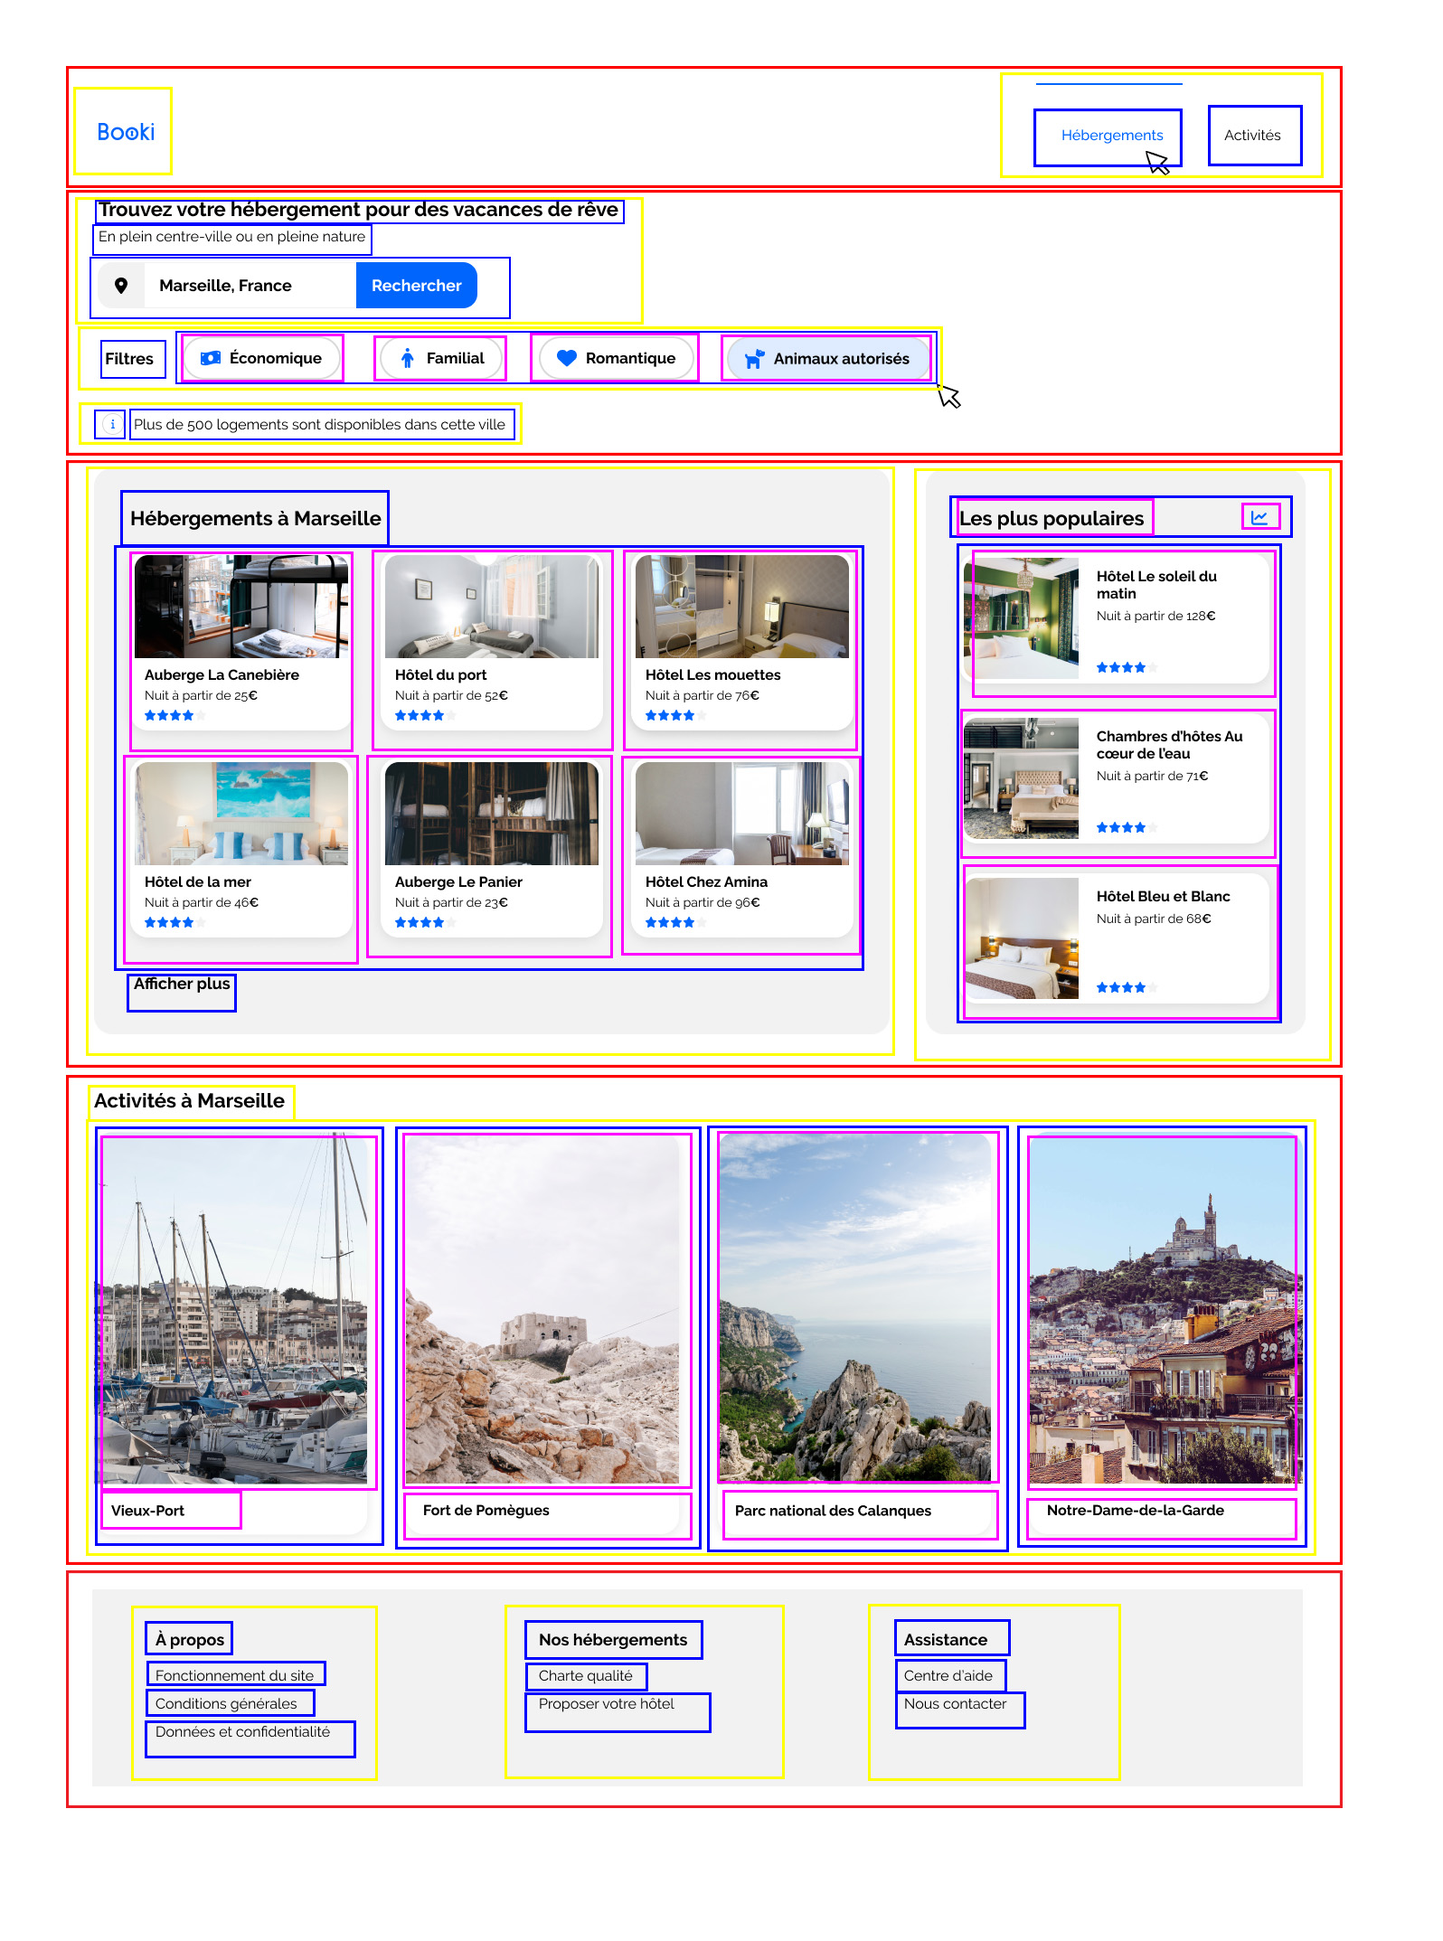
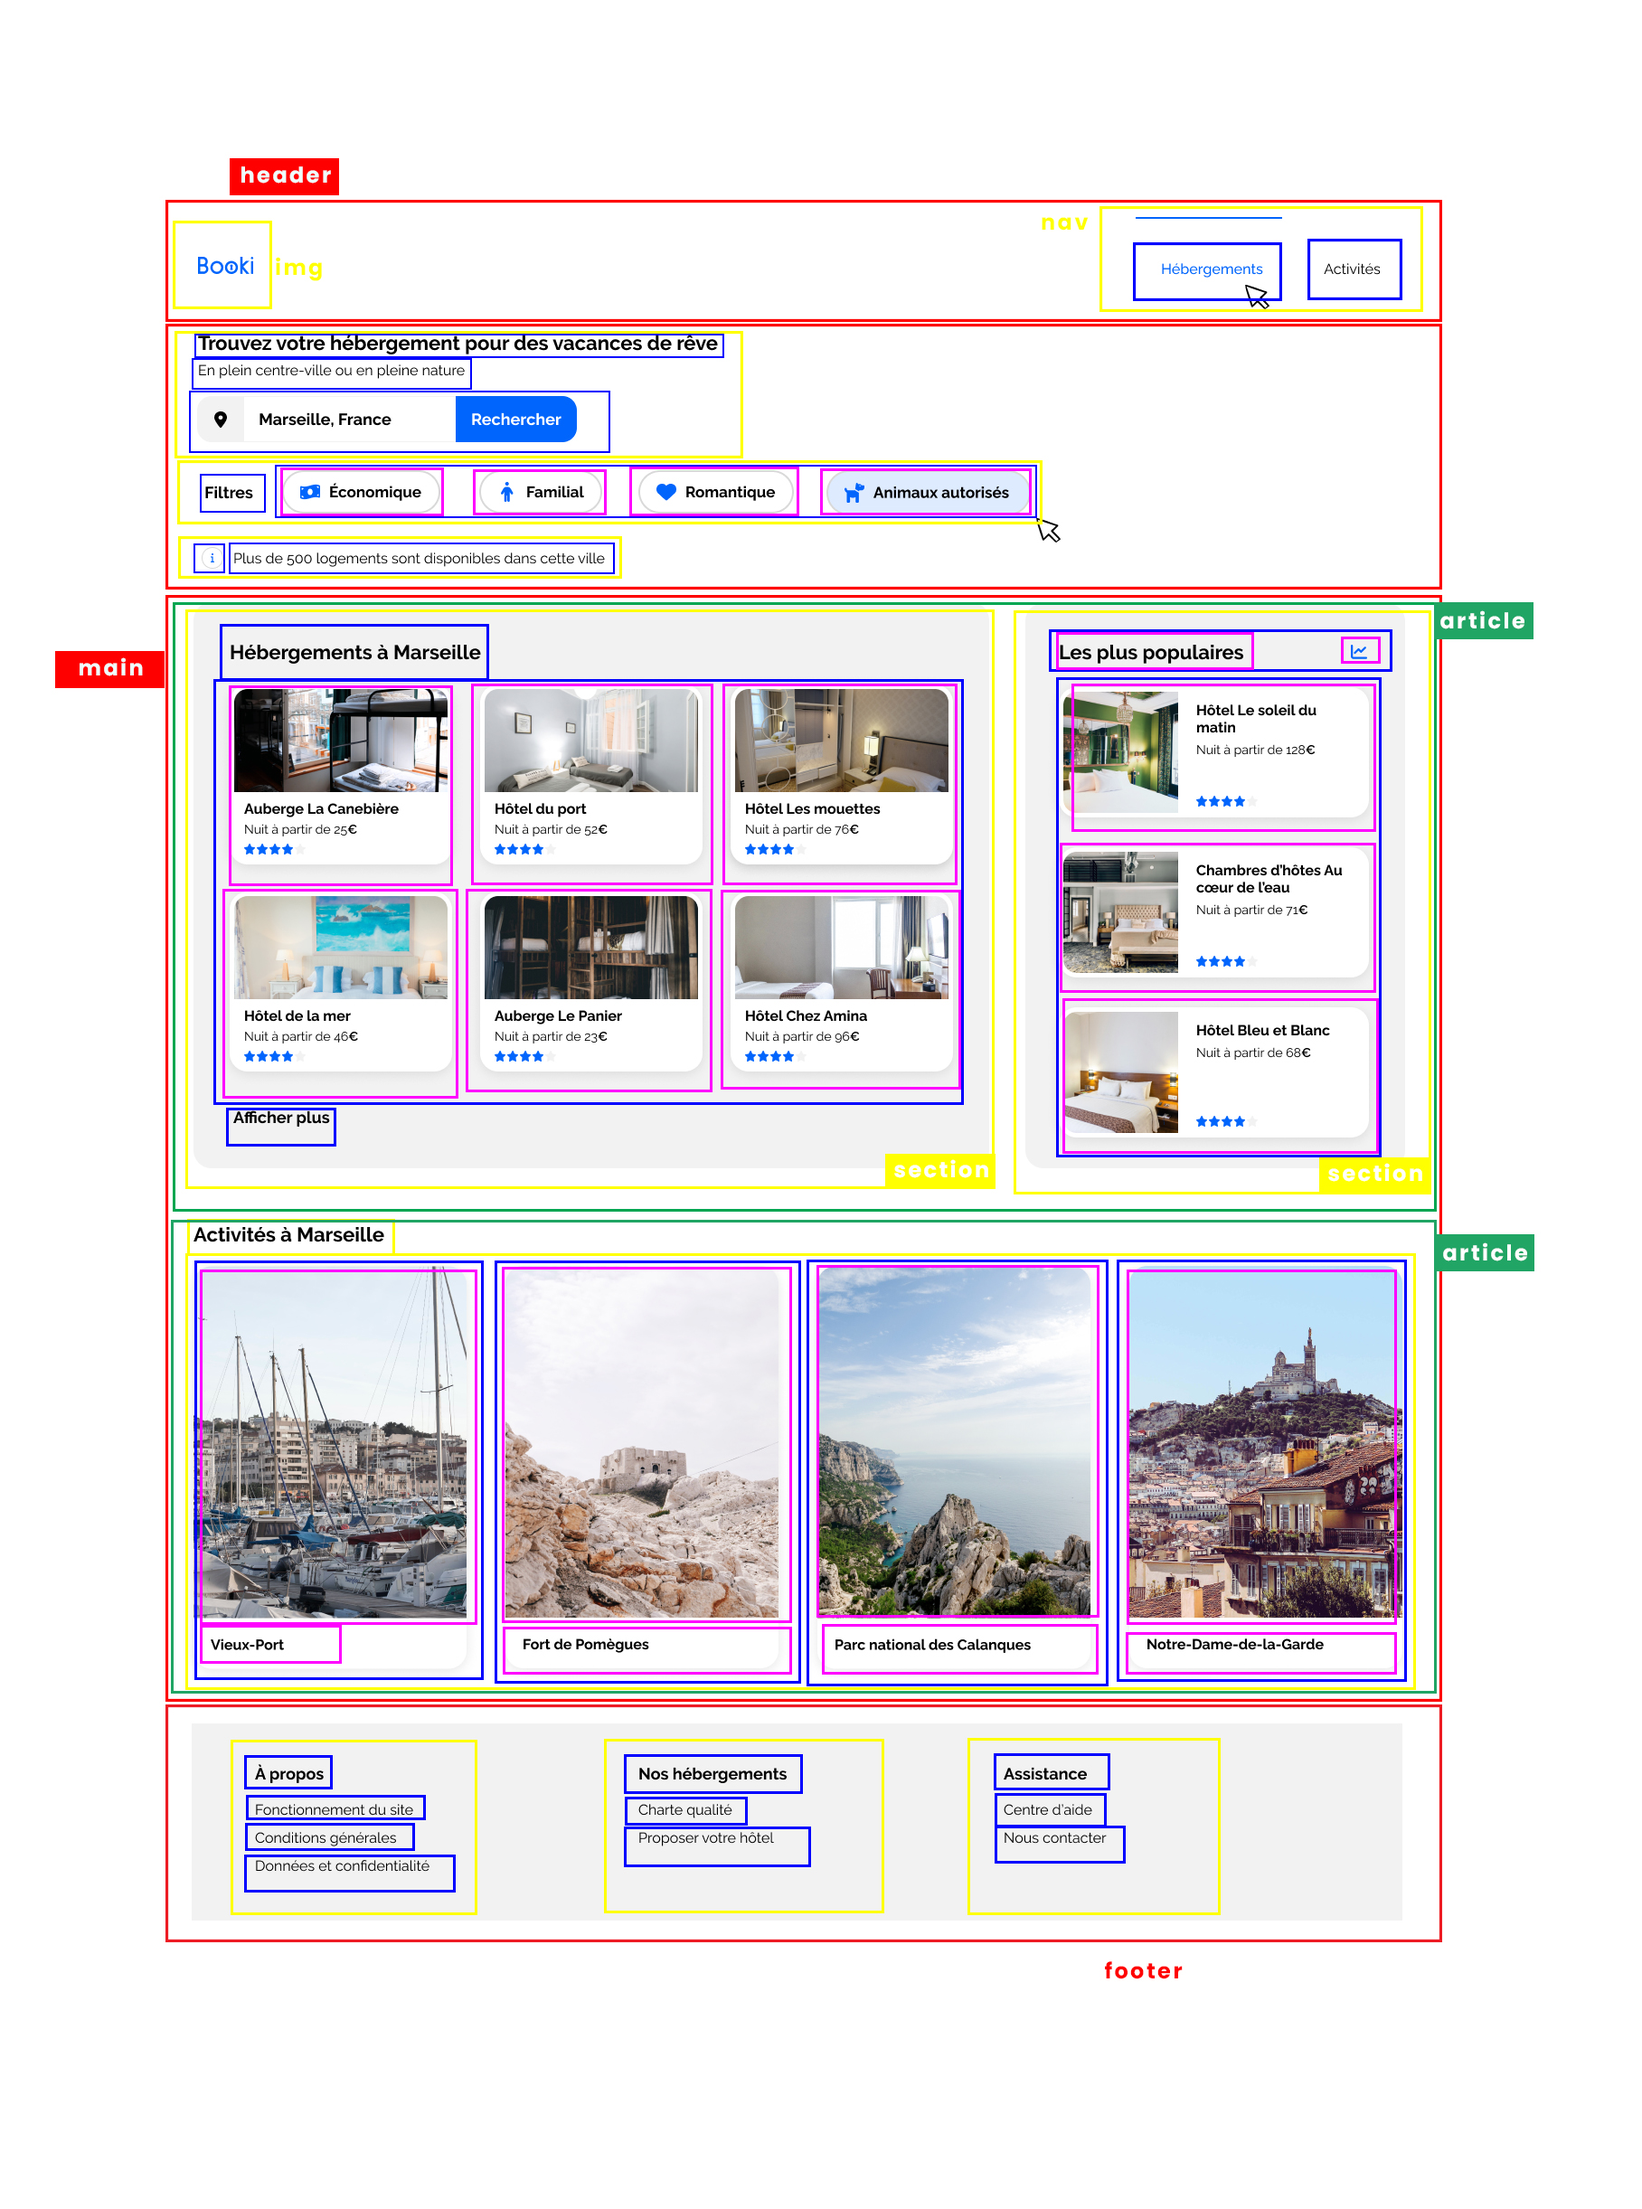
Ajout de toutes les cartes Hebergements à Marseille

diff --git a/index.html b/index.html
@@ -45,7 +45,7 @@
       </div>
 
       <div id="FiltresDeRecherche">
-         <h3>Filtres</h3>
+         <p class="SousTitres">Filtres</p>
          <div class="Filtres">
             <i class="fa-solid fa-money-bill-wave"></i>  <p>Économique</p> 
          </div>
@@ -69,24 +69,113 @@
       </div>
       
       <article id="Hebergements">
-         <h1>
-            Hébergements à Marseille
-         </h1>
-         <div class="CardHebergement">
-            <div id="AubergeLaCanebiere">
-               <img src="Images Booki/hebergements/2_large/marcus-loke-WQJvWU_HZFo-unsplash.jpg" alt="Auberge-La-Canebiere" style="width:100%">
-               <div class="ContainerCard">
-                  <h2>Auberge La Canebière</h2>
-                  <h3>Nuit à partir de 25€</h3>
-                  <i class="fa-solid fa-star blue-star"></i>
-                  <i class="fa-solid fa-star blue-star"></i>
-                  <i class="fa-solid fa-star blue-star"></i>
-                  <i class="fa-solid fa-star blue-star"></i>
-                  <i class="fa-solid fa-star grey-star"></i>                  
-               </div>
-            </div>
-         </div>
+         <section id="HebergementsAMarseille">
+            <h1>
+               Hébergements à Marseille
+            </h1>
+            <div id="CardsHebergementsAMarseille">
+                  <div class="CardHebergement">
+                     <a href="#">
+                     <img src="Images Booki/hebergements/4_small/marcus-loke-WQJvWU_HZFo-unsplash.jpg" alt="Auberge-La-Canebiere" style="width:100%">
+                     
+                     <div class="ContainerCard">
+                        <h2>Auberge La Canebière</h2>
+                        <h3>Nuit à partir de 25€</h3>
+                        <i class="fa-solid fa-star blue-star"></i>
+                        <i class="fa-solid fa-star blue-star"></i>
+                        <i class="fa-solid fa-star blue-star"></i>
+                        <i class="fa-solid fa-star blue-star"></i>
+                        <i class="fa-solid fa-star grey-star"></i>              
+                     </div>
+                     </a>
+                  </div>
 
+                  <div class="CardHebergement">
+                     <a href="#">
+                     <img src="Images Booki/hebergements/4_small/fred-kleber-gTbaxaVLvsg-unsplash.jpg" alt="Hotel-Du-Port" style="width:100%">
+                     
+                     <div class="ContainerCard">
+                        <h2>Hôtel du port</h2>
+                        <h3>Nuit à partir de 52€</h3>
+                        <i class="fa-solid fa-star blue-star"></i>
+                        <i class="fa-solid fa-star blue-star"></i>
+                        <i class="fa-solid fa-star blue-star"></i>
+                        <i class="fa-solid fa-star blue-star"></i>
+                        <i class="fa-solid fa-star grey-star"></i>                  
+                     </div>
+                     </a>
+                  </div>
+
+                  <div class="CardHebergement">
+                     <a href="#">
+                     <img src="Images Booki/hebergements/4_small/reisetopia-B8WIgxA_PFU-unsplash.jpg" alt="Hotel-Les-Mouettes" style="width:100%">
+                     
+                     <div class="ContainerCard">
+                        <h2>Hôtel Les mouettes</h2>
+                        <h3>Nuit à partir de 76€</h3>
+                        <i class="fa-solid fa-star blue-star"></i>
+                        <i class="fa-solid fa-star blue-star"></i>
+                        <i class="fa-solid fa-star blue-star"></i>
+                        <i class="fa-solid fa-star blue-star"></i>
+                        <i class="fa-solid fa-star grey-star"></i>                  
+                     </div>
+                     </a>
+                  </div>
+
+                  <div class="CardHebergement">
+                     <a href="#">
+                     <img src="Images Booki/hebergements/4_small/annie-spratt-Eg1qcIitAuA-unsplash.jpg" alt="Hotel-de-la-Mer" style="width:100%">
+                     
+                     <div class="ContainerCard">
+                        <h2>Hôtel de la mer</h2>
+                        <h3>Nuit à partir de 46€</h3>
+                        <i class="fa-solid fa-star blue-star"></i>
+                        <i class="fa-solid fa-star blue-star"></i>
+                        <i class="fa-solid fa-star blue-star"></i>
+                        <i class="fa-solid fa-star blue-star"></i>
+                        <i class="fa-solid fa-star grey-star"></i>                  
+                     </div>
+                     </a>
+                  </div>
+
+                  <div class="CardHebergement">
+                     <a href="#">
+                     <img src="Images Booki/hebergements/4_small/nicate-lee-kT-ZyaiwBe0-unsplash.jpg" alt="Hotel-Le-Panier" style="width:100%">
+                     
+                     <div class="ContainerCard">
+                        <h2>Auberge Le Panier</h2>
+                        <h3>Nuit à partir de 23€</h3>
+                        <i class="fa-solid fa-star blue-star"></i>
+                        <i class="fa-solid fa-star blue-star"></i>
+                        <i class="fa-solid fa-star blue-star"></i>
+                        <i class="fa-solid fa-star blue-star"></i>
+                        <i class="fa-solid fa-star grey-star"></i>                  
+                     </div>
+                     </a>
+                  </div>
+
+                  <div class="CardHebergement">
+                     <a href="">
+                     <img src="Images Booki/hebergements/4_small/febrian-zakaria-sjvU0THccQA-unsplash.jpg" alt="Hotel-Chez-Amina" style="width:100%">
+                     
+                     <div class="ContainerCard">
+                        <h2>Hôtel Chez Amina</h2>
+                        <h3>Nuit à partir de 96€</h3>
+                        <i class="fa-solid fa-star blue-star"></i>
+                        <i class="fa-solid fa-star blue-star"></i>
+                        <i class="fa-solid fa-star blue-star"></i>
+                        <i class="fa-solid fa-star blue-star"></i>
+                        <i class="fa-solid fa-star grey-star"></i>                  
+                     </div>
+                     </a>
+                  </div>
+            </div>
+            <a href="#" class="SousTitres">Afficher plus</a>
+         </section>
+
+         <section id="LesPlusPopulaires">
+
+         </section>
       </article>
    </main>
 

diff --git a/css/styles.css b/css/styles.css
@@ -1,13 +1,17 @@
-@media screen and (max-width : 1400px) {
+@media screen and (min-width : 992px) {
 
    * {
       font-family: 'Raleway';
    }
 
+
+
    body {
       background: white;
       margin: 0 5%;
+      max-width: 1400px;
    }
+
    h1 {
       font-family: 'Raleway', sans-serif;
    }
@@ -33,7 +37,7 @@
       text-align: center; 
    }
 
-   a {
+   nav a {
       color: #000000;
       text-decoration: none;
       display: inline-block; 
@@ -47,7 +51,7 @@
       top: 0px;
    }
 
-   a:hover {
+   nav a:hover {
       color: #0065FC;
       border-top: 2px #0065FC solid;
    }
@@ -138,7 +142,13 @@
       padding: 10px 20px;
       border: 2px solid  #D9D9D9;
       border-radius: 30px;
-      height: 20px;      
+      height: 20px;
+      flex-wrap: nowrap;  /*A verifier*/    
+   }
+
+   .SousTitres {
+      font-size: 18px;
+      font-weight: 700;
    }
 
    .Filtres i {
@@ -154,6 +164,7 @@
       justify-content: space-between;
       align-items: center;
       margin-top: 10px;
+      width: 70%;
    }
 
    .Filtres:hover {
@@ -175,17 +186,28 @@
       margin-right: 10px;
    }
 
-   #Hebergements {
+   #HebergementsAMarseille {
       background-color: #F2F2F2 ;
-      padding: 30px 50px;
+      padding: 30px 50px 40px 50px;
       border-radius: 15px;
       margin-top: 30px;
+      width: 70%;
+      display: flex;
+      flex-direction: column;
+   }
+
+   #CardsHebergementsAMarseille {
+      display: flex;
+      flex-direction: row;
+      justify-content: space-between;
+      flex-wrap: wrap;
+      margin-bottom: 20px;
    }
 
    .CardHebergement img {
       border-radius: 15px 15px 0 0;
-      object-fit: fill;
-      width: 100%;
+      object-fit: cover;
+      max-width: 100%;
       height: 130px;
    }
 
@@ -195,6 +217,12 @@
       padding: 5px;
       width: 246px;
       box-shadow: 0 4px 20px rgba(0,0,0,0.1);
+      margin: 15px 0;
+   }
+
+   .CardHebergement a {
+      text-decoration: none;
+      outline: none;
    }
 
    .ContainerCard {
@@ -222,6 +250,7 @@
    .grey-star {
       color: #F2F2F2;
    }
+
 }
 
 
